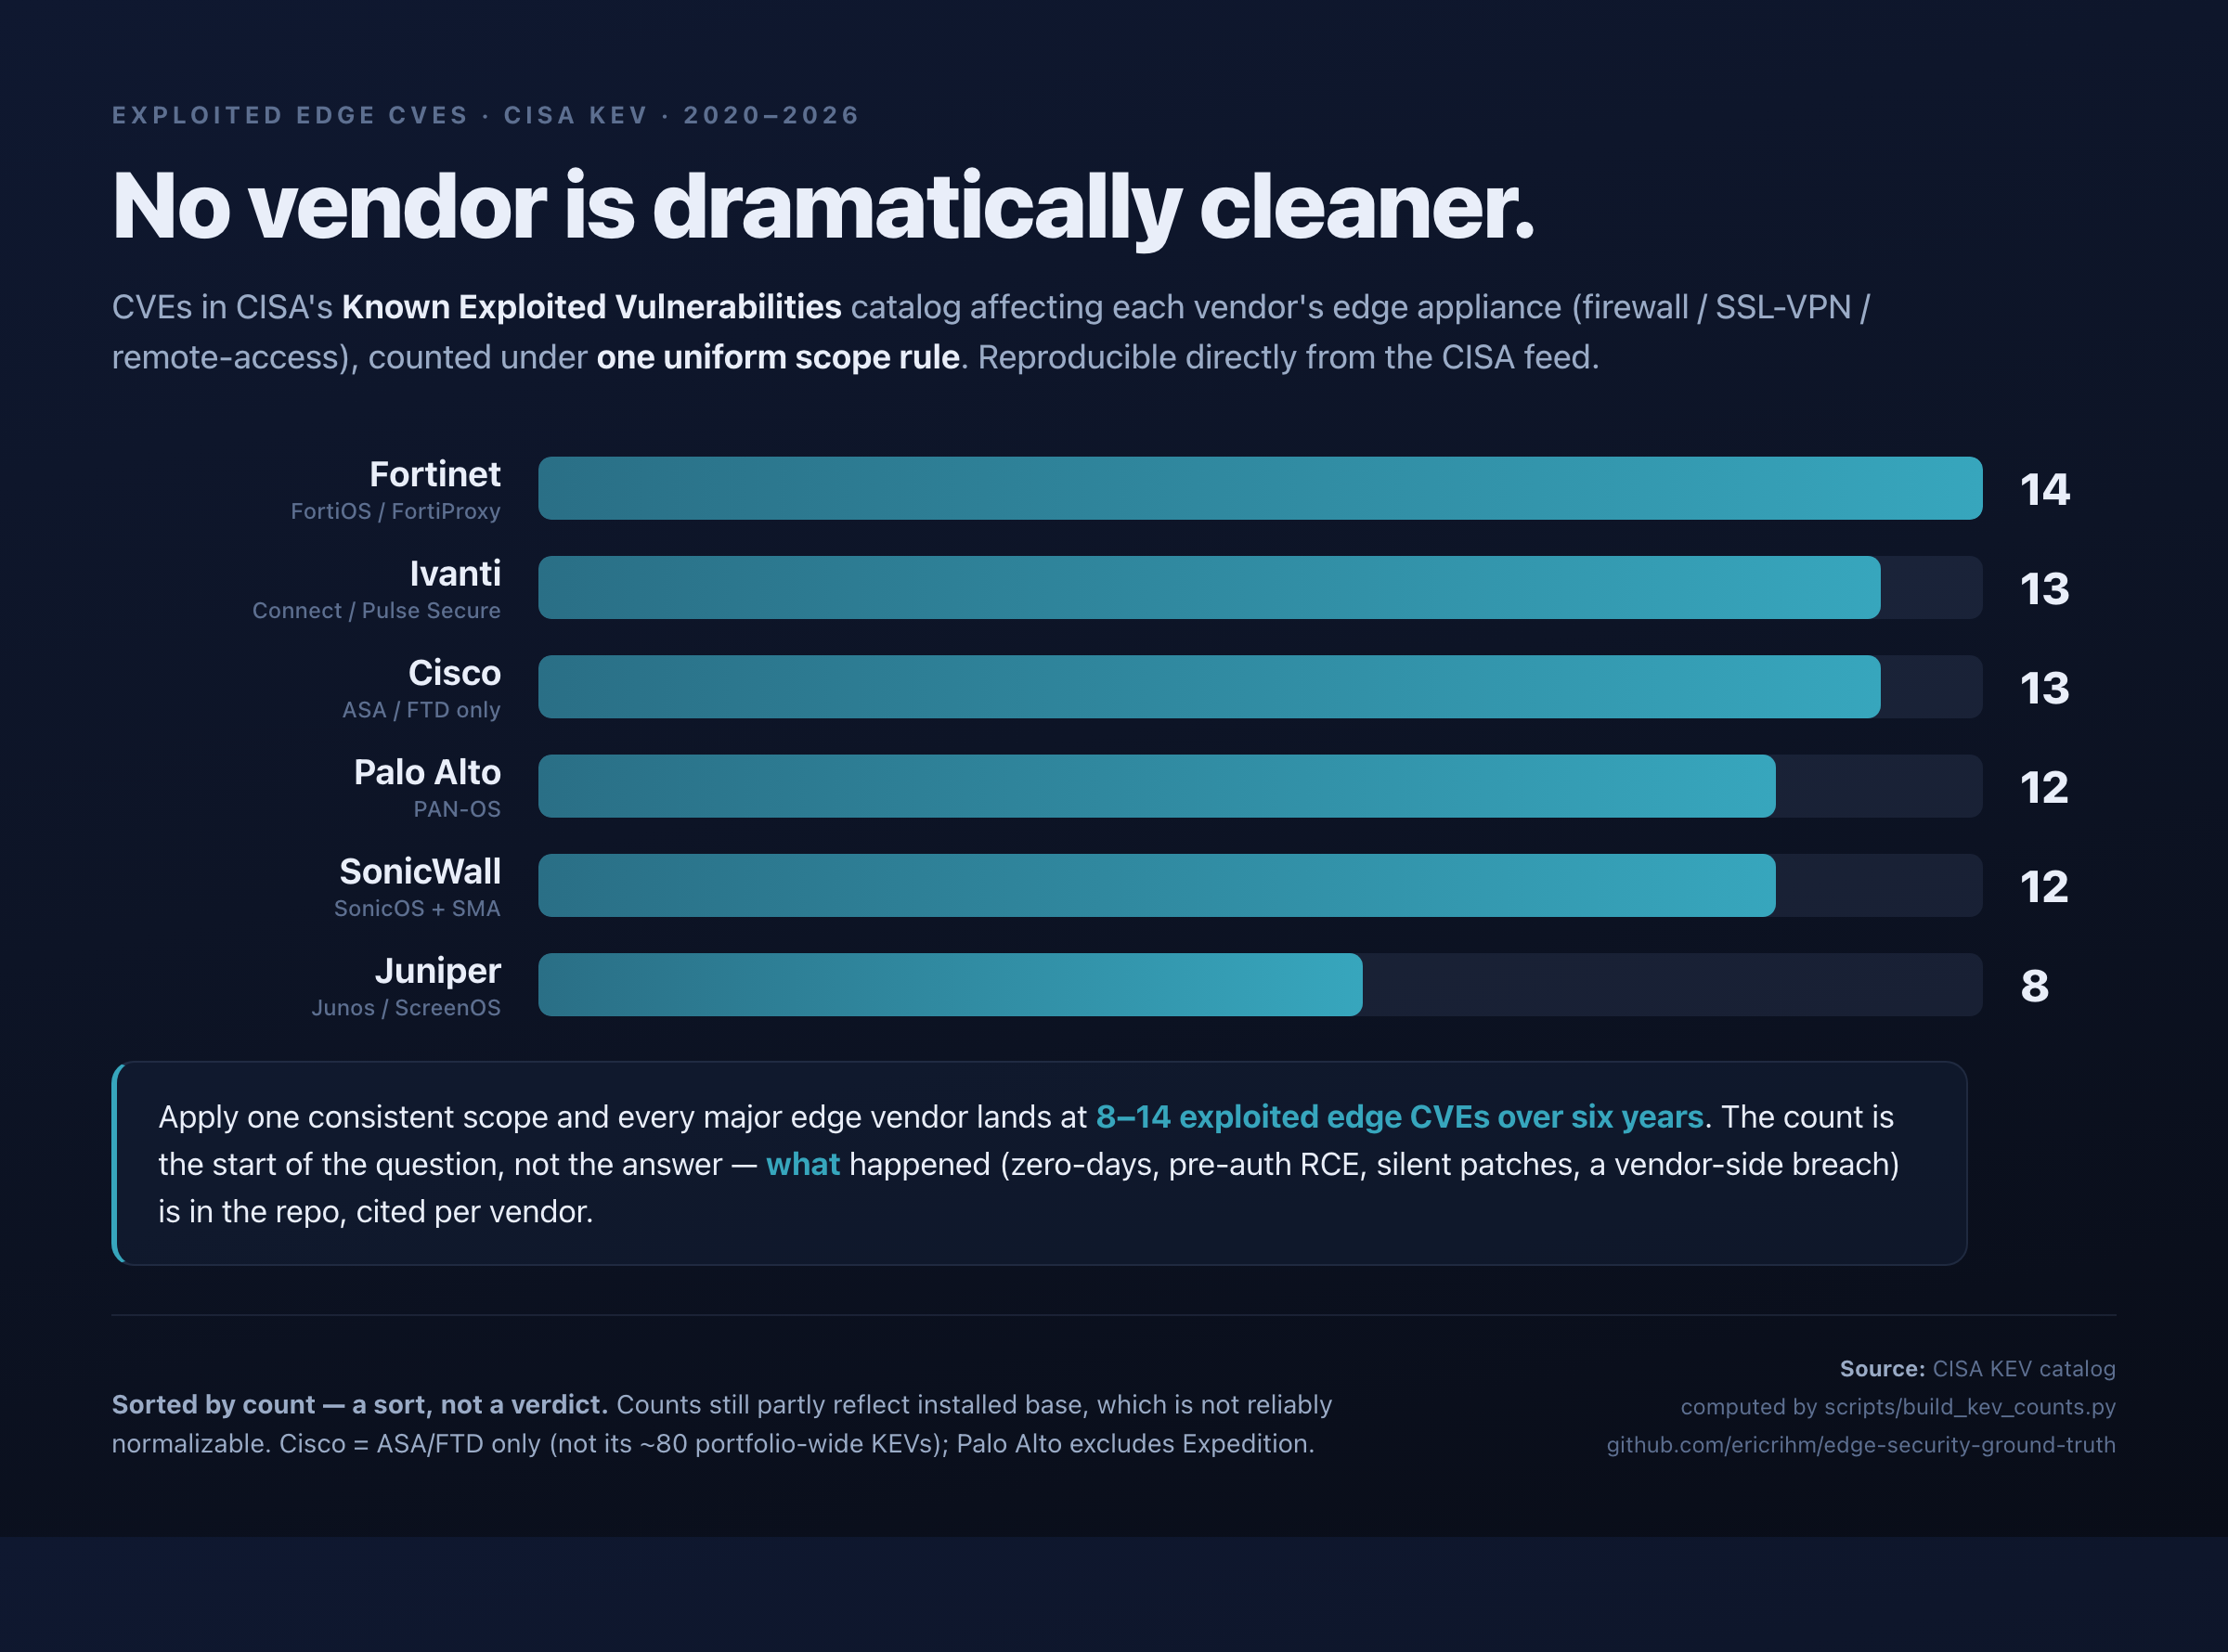
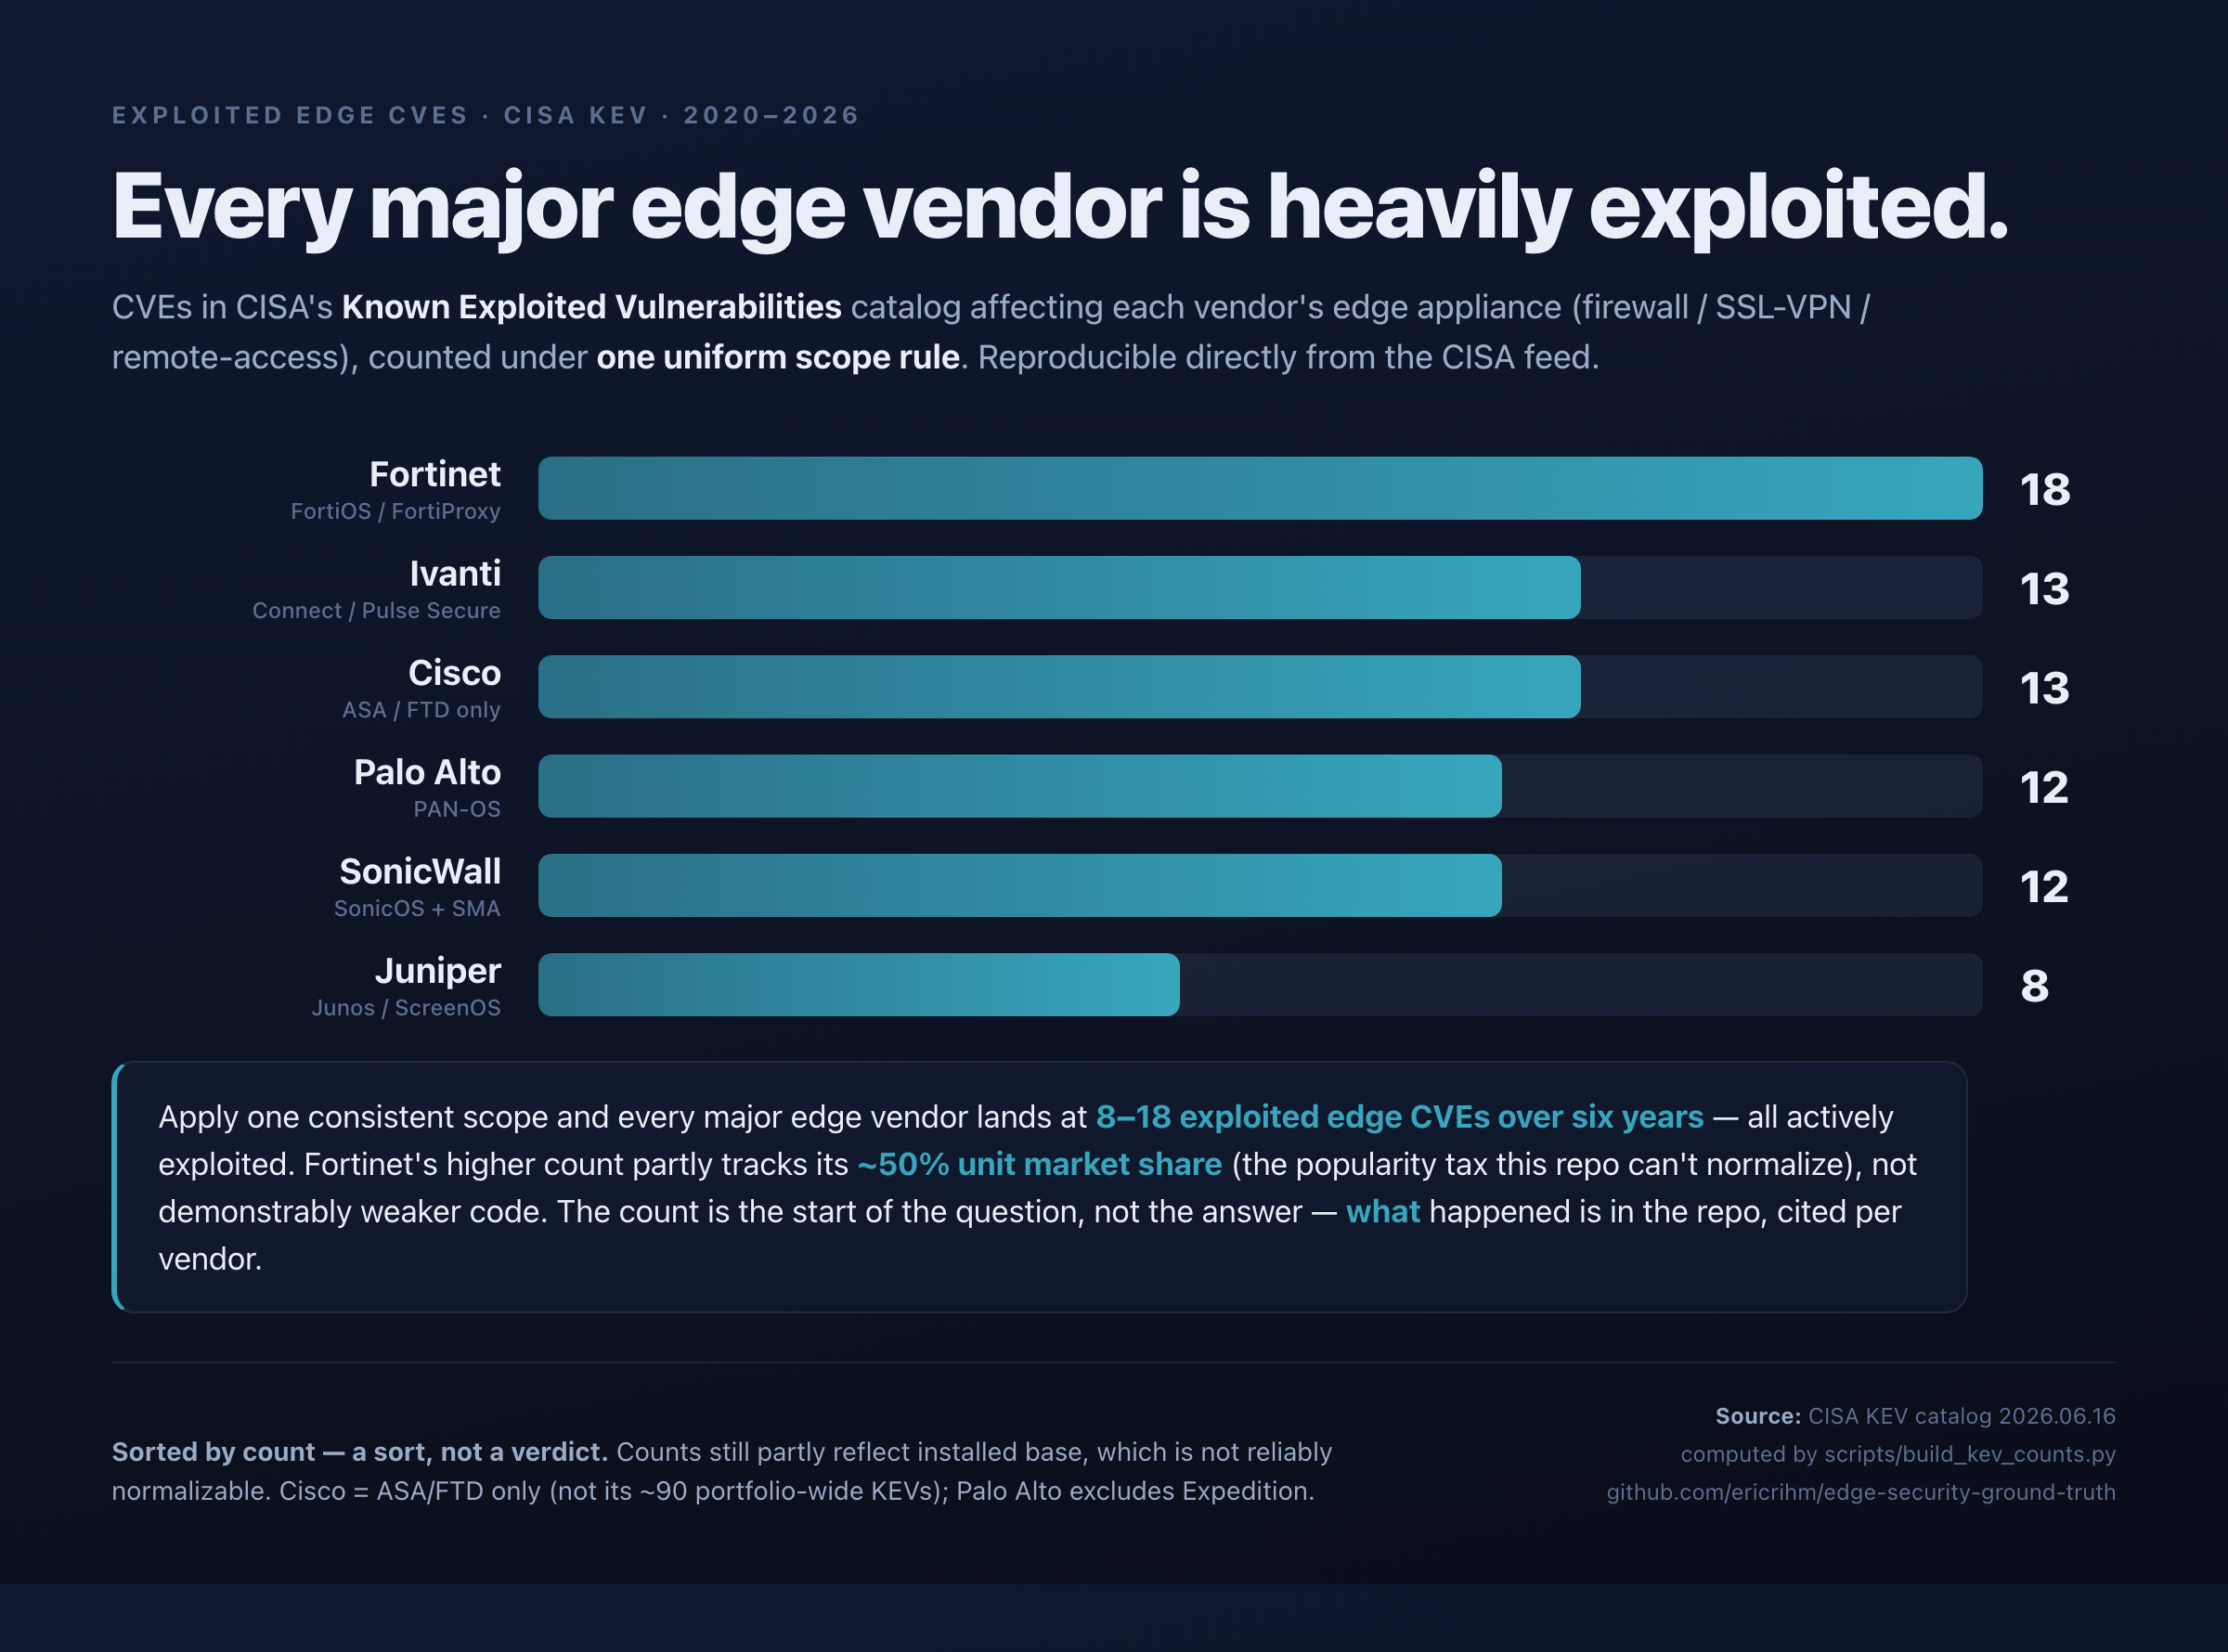
Fix Fortinet undercount 14->18; add FortiBleed (June 2026) context
The scope filter matched the KEV `product` field on FortiOS|FortiProxy, but CISA
labels several FortiOS edge KEVs as the generic "Multiple Products" -- so the
script silently dropped CVE-2022-40684, CVE-2024-23113, CVE-2025-59718, and
CVE-2026-24858. build_kev_counts.py now also matches the shortDescription for
generic-labeled entries (audited across all 6 vendors -- only Fortinet was
affected; Ivanti/Cisco "Multiple Products" entries are genuinely out of scope).

- Fortinet edge KEV: 14 -> 18 (range across vendors now 8-18).
- README + chart updated; Fortinet's higher count framed against its ~50% unit
  share (the install-base confounder), per the methodology.
- Fortinet doc: add the previously-missed FortiOS KEVs + a FortiBleed (June 2026)
  section (credential dataset tied to known flaws incl. CVE-2026-24858, not a new 0-day).
- README: add a data-freshness note (verified vs CISA KEV 2026.06.16; re-run the script).

diff --git a/assets/edge-kev-chart.html b/assets/edge-kev-chart.html
@@ -38,23 +38,23 @@
 <body>
 <div class="wrap">
   <div class="eyebrow">Exploited edge CVEs · CISA KEV · 2020–2026</div>
-  <h1>No vendor is dramatically cleaner.</h1>
+  <h1>Every major edge vendor is heavily exploited.</h1>
   <p class="sub">CVEs in CISA's <b>Known Exploited Vulnerabilities</b> catalog affecting each vendor's edge appliance (firewall / SSL‑VPN / remote‑access), counted under <b>one uniform scope rule</b>. Reproducible directly from the CISA feed.</p>
 
   <div class="chart">
-    <div class="row"><div class="name">Fortinet<span>FortiOS / FortiProxy</span></div><div class="track"><div class="bar" style="width:100%"></div></div><div class="val">14</div></div>
-    <div class="row"><div class="name">Ivanti<span>Connect / Pulse Secure</span></div><div class="track"><div class="bar" style="width:92.9%"></div></div><div class="val">13</div></div>
-    <div class="row"><div class="name">Cisco<span>ASA / FTD only</span></div><div class="track"><div class="bar" style="width:92.9%"></div></div><div class="val">13</div></div>
-    <div class="row"><div class="name">Palo Alto<span>PAN‑OS</span></div><div class="track"><div class="bar" style="width:85.7%"></div></div><div class="val">12</div></div>
-    <div class="row"><div class="name">SonicWall<span>SonicOS + SMA</span></div><div class="track"><div class="bar" style="width:85.7%"></div></div><div class="val">12</div></div>
-    <div class="row"><div class="name">Juniper<span>Junos / ScreenOS</span></div><div class="track"><div class="bar" style="width:57.1%"></div></div><div class="val">8</div></div>
+    <div class="row"><div class="name">Fortinet<span>FortiOS / FortiProxy</span></div><div class="track"><div class="bar" style="width:100%"></div></div><div class="val">18</div></div>
+    <div class="row"><div class="name">Ivanti<span>Connect / Pulse Secure</span></div><div class="track"><div class="bar" style="width:72.2%"></div></div><div class="val">13</div></div>
+    <div class="row"><div class="name">Cisco<span>ASA / FTD only</span></div><div class="track"><div class="bar" style="width:72.2%"></div></div><div class="val">13</div></div>
+    <div class="row"><div class="name">Palo Alto<span>PAN‑OS</span></div><div class="track"><div class="bar" style="width:66.7%"></div></div><div class="val">12</div></div>
+    <div class="row"><div class="name">SonicWall<span>SonicOS + SMA</span></div><div class="track"><div class="bar" style="width:66.7%"></div></div><div class="val">12</div></div>
+    <div class="row"><div class="name">Juniper<span>Junos / ScreenOS</span></div><div class="track"><div class="bar" style="width:44.4%"></div></div><div class="val">8</div></div>
   </div>
 
-  <div class="band">Apply one consistent scope and every major edge vendor lands at <b>8–14 exploited edge CVEs over six years</b>. The count is the start of the question, not the answer — <b>what</b> happened (zero‑days, pre‑auth RCE, silent patches, a vendor‑side breach) is in the repo, cited per vendor.</div>
+  <div class="band">Apply one consistent scope and every major edge vendor lands at <b>8–18 exploited edge CVEs over six years</b> — all actively exploited. Fortinet's higher count partly tracks its <b>~50% unit market share</b> (the popularity tax this repo can't normalize), not demonstrably weaker code. The count is the start of the question, not the answer — <b>what</b> happened is in the repo, cited per vendor.</div>
 
   <div class="foot">
-    <div class="m"><b>Sorted by count — a sort, not a verdict.</b> Counts still partly reflect installed base, which is not reliably normalizable. Cisco = ASA/FTD only (not its ~80 portfolio‑wide KEVs); Palo Alto excludes Expedition.</div>
-    <div class="src"><b>Source:</b> CISA KEV catalog<br>computed by scripts/build_kev_counts.py<br>github.com/ericrihm/edge-security-ground-truth</div>
+    <div class="m"><b>Sorted by count — a sort, not a verdict.</b> Counts still partly reflect installed base, which is not reliably normalizable. Cisco = ASA/FTD only (not its ~90 portfolio‑wide KEVs); Palo Alto excludes Expedition.</div>
+    <div class="src"><b>Source:</b> CISA KEV catalog 2026.06.16<br>computed by scripts/build_kev_counts.py<br>github.com/ericrihm/edge-security-ground-truth</div>
   </div>
 </div>
 </body>

diff --git a/scripts/build_kev_counts.py b/scripts/build_kev_counts.py
@@ -48,7 +48,14 @@ def main(path):
             if v.get("vendorProject", "").lower() != vendor.lower():
                 continue
             prod = v.get("product", "")
-            if not inc.search(prod):
+            desc = v.get("shortDescription", "")
+            # CISA labels some in-scope CVEs with a generic "Multiple Products" product field
+            # (e.g. FortiOS bugs CVE-2022-40684, CVE-2024-23113, CVE-2026-24858). For those, also
+            # match the shortDescription so the edge product isn't silently dropped. Exclude rules
+            # still test the product field only, so a generic-labeled entry isn't dropped merely
+            # because its description lists an out-of-scope sibling product.
+            hay = prod if "multiple" not in prod.lower() else prod + " " + desc
+            if not inc.search(hay):
                 continue
             if exc and exc.search(prod):
                 continue

diff --git a/README.md b/README.md
@@ -29,16 +29,16 @@ The table counts **CISA‑KEV‑listed CVEs affecting each vendor's edge applian
 
 | Vendor | Edge product in scope | Exploited edge CVEs (KEV) |
 |--------|-----------------------|--------------------------:|
-| [Fortinet](docs/Fortinet.md) | FortiOS / FortiProxy SSL‑VPN | **14** |
+| [Fortinet](docs/Fortinet.md) | FortiOS / FortiProxy SSL‑VPN | **18** |
 | [Ivanti](docs/Ivanti.md) | Connect Secure / Pulse Secure VPN | **13** |
 | [Cisco](docs/Cisco.md) | ASA / FTD firewall *(ASA/FTD only — not Cisco's portfolio‑wide KEV total)* | **13** |
 | [Palo Alto Networks](docs/PaloAlto.md) | PAN‑OS *(Expedition excluded)* | **12** |
 | [SonicWall](docs/SonicWall.md) | SonicOS firewall + SMA remote‑access | **12** |
 | [Juniper Networks](docs/Juniper.md) | Junos OS (J‑Web) / ScreenOS | **8** |
 
-![Exploited edge CVEs by vendor — CISA KEV 2020–2026; all six cluster at 8–14](assets/edge-kev-chart.png)
+![Exploited edge CVEs by vendor — CISA KEV 2020–2026; the six vendors span 8–18](assets/edge-kev-chart.png)
 
-**The most important takeaway is the spread, not the order.** Under a consistent scope, every major edge vendor sits between **8 and 14** exploited edge CVEs over six years. **No vendor is dramatically cleaner than the others.** Anyone selling you "vendor X is secure, vendor Y isn't" on raw counts is selling you noise. (See [Caveats](#caveats-sources--corrections): counts still partly reflect installed base, which we cannot normalize away.)
+**The most important takeaway is the spread, not the order.** Under a consistent scope, every major edge vendor sits between **8 and 18** exploited edge CVEs over six years — all under active exploitation. Fortinet's higher count tracks its **~50% unit market share** (the popularity tax we can't normalize away), not demonstrably weaker code. **No vendor is dramatically cleaner than the others.** Anyone selling you "vendor X is secure, vendor Y isn't" on raw counts is selling you noise. (See [Caveats](#caveats-sources--corrections): counts still partly reflect installed base, which we cannot normalize away.)
 
 The full per‑vendor CVE lists with KEV dates are in [`scripts/kev_edge_counts.json`](./scripts/kev_edge_counts.json) (regenerated by the script).
 
@@ -49,7 +49,7 @@ The full per‑vendor CVE lists with KEV dates are in [`scripts/kev_edge_counts.
 The count says *how many* edge bugs were exploited. It does **not** say how fast, whether attackers beat the patch, or whether the vendor's own conduct made things worse. Those are partly interpretive, so we present them as **sourced facts, not aggregate scores.** Weigh whichever matters to your deployment.
 
 ### Fortinet — FortiOS / FortiProxy SSL‑VPN
-A multi‑year run of pre‑auth SSL‑VPN flaws: [CVE‑2022‑42475](https://nvd.nist.gov/vuln/detail/CVE-2022-42475), [CVE‑2023‑27997](https://nvd.nist.gov/vuln/detail/CVE-2023-27997), and [CVE‑2024‑21762](https://nvd.nist.gov/vuln/detail/CVE-2024-21762) are all pre‑authentication remote code execution. **Documented silent patch:** CVE‑2023‑27997 ("XORtigate") shipped as a fixed firmware build ~3–4 days **before** the advisory; researchers reproduced it by diffing the firmware before customers were told ([watchTowr](https://labs.watchtowr.com/xortigate-or-cve-2023-27997/), [Tenable](https://www.tenable.com/blog/cve-2023-27997-heap-based-buffer-overflow-in-fortinet-fortios-and-fortiproxy-ssl-vpn-xortigate)). CVE‑2024‑21762 was added to CISA KEV the day after disclosure (Feb 9 2024), signaling exploitation was already active.
+A multi‑year run of pre‑auth SSL‑VPN flaws: [CVE‑2022‑42475](https://nvd.nist.gov/vuln/detail/CVE-2022-42475), [CVE‑2023‑27997](https://nvd.nist.gov/vuln/detail/CVE-2023-27997), and [CVE‑2024‑21762](https://nvd.nist.gov/vuln/detail/CVE-2024-21762) are all pre‑authentication remote code execution. **Documented silent patch:** CVE‑2023‑27997 ("XORtigate") shipped as a fixed firmware build ~3–4 days **before** the advisory; researchers reproduced it by diffing the firmware before customers were told ([watchTowr](https://labs.watchtowr.com/xortigate-or-cve-2023-27997/), [Tenable](https://www.tenable.com/blog/cve-2023-27997-heap-based-buffer-overflow-in-fortinet-fortios-and-fortiproxy-ssl-vpn-xortigate)). CVE‑2024‑21762 was added to CISA KEV the day after disclosure (Feb 9 2024), signaling exploitation was already active. Also KEV‑listed (under CISA's generic "Multiple Products" label): the FortiOS auth bypasses [CVE‑2022‑40684](https://nvd.nist.gov/vuln/detail/CVE-2022-40684) (mass‑exploited, 2022) and [CVE‑2026‑24858](https://www.cisa.gov/news-events/alerts/2026/01/28/fortinet-releases-guidance-address-ongoing-exploitation-authentication-bypass-vulnerability-cve-2026) (FortiCloud SSO, actively exploited Jan 2026), and the FortiOS RCE [CVE‑2024‑23113](https://nvd.nist.gov/vuln/detail/CVE-2024-23113). **June 2026 — [FortiBleed](https://cyberscoop.com/ortinet-zero-day-cve-2026-24858-forticloud-sso-auth-bypass/):** credentials for ~74,000 internet‑facing FortiGates surfaced; researchers attribute it to *already‑known* flaws (chiefly CVE‑2026‑24858) plus legacy hashing and recycled credentials — not a new zero‑day.
 
 ### Ivanti — Connect Secure / Pulse Secure VPN
 The Jan 2024 [CVE‑2023‑46805](https://cloud.google.com/blog/topics/threat-intelligence/ivanti-connect-secure-vpn-zero-day) + [CVE‑2024‑21887](https://cloud.google.com/blog/topics/threat-intelligence/ivanti-connect-secure-vpn-zero-day) chain was an unauthenticated RCE **exploited before any patch** (~weeks pre‑patch, China‑nexus UNC5221), severe enough to trigger [CISA Emergency Directive 24‑01](https://www.cisa.gov/news-events/directives/emergency-directive-24-01) ordering federal agencies to disconnect — a rare step for a commercial VPN. CISA also reported the Integrity Checker Tool could be defeated and factory resets might not remove persistence (a finding [Ivanti disputed](https://www.bankinfosecurity.com/ivanti-disputes-cisa-findings-post-factory-reset-hacking-a-24492)). The pattern recurred in 2025 with [CVE‑2025‑0282](https://www.cisa.gov/news-events/alerts/2025/01/08/cisa-adds-one-vulnerability-kev-catalog) (pre‑auth RCE).
@@ -83,7 +83,7 @@ The 2023 J‑Web chain ([CVE‑2023‑36844](https://www.rapid7.com/blog/post/20
 
 This repo does reach a conclusion — just not a per‑vendor verdict. Three findings the data supports:
 
-1. **No major edge vendor is meaningfully safer than the others.** Six vendors, one consistent scope, **8–14 exploited edge CVEs each** over six years. Choosing a firewall on its CVE reputation is choosing between roughly equivalent exposure.
+1. **No major edge vendor is meaningfully safer than the others.** Six vendors, one consistent scope, **8–18 exploited edge CVEs each** over six years — all actively exploited. The high end (Fortinet, 18) tracks the largest install base, not demonstrably weaker code. Choosing a firewall on its CVE reputation is choosing between roughly equivalent exposure.
 2. **The exposure is the edge itself, not the brand.** Mandiant's 2024 average time‑to‑exploit went *negative* (exploited before patch), and 44% of 2024 zero‑days hit security/edge appliances. The recurring pattern across every vendor here is identical: an internet‑facing, unauthenticated‑reachable management/VPN surface, exploited fast — often pre‑patch.
 3. **So the controllable variable is you, not the vendor.** What separated a breach from a near‑miss in these cases was response posture: time‑to‑patch (or virtual‑patch), whether the management plane was internet‑exposed, whether you assume‑breach and hunt once a KEV lands, and whether you've isolated the vendor's *own* cloud/management services — the [SonicWall cloud‑backup breach](docs/SonicWall.md) is the reminder that the vendor's infrastructure is part of your attack surface.
 
@@ -98,6 +98,7 @@ This repo does reach a conclusion — just not a per‑vendor verdict. Three fin
 - **Scope is a judgment call, applied transparently.** The include/exclude rule lives in [`scripts/build_kev_counts.py`](./scripts/build_kev_counts.py); disagree with it? Edit the rule and re‑run. SonicWall's count spans firewall + SMA remote‑access; Cisco is ASA/FTD‑only; Palo Alto excludes Expedition.
 - **Attribution is probabilistic** (UNC5221, UNC3886, UAT4356 = assessments, not proof). **Bounded window:** 2020‑01‑01 → 2026‑06‑16.
 - **Frameworks & sources:** CISA KEV, FIRST.org EPSS, Mandiant/GTIG TTE, VulnCheck 2026, arXiv:2006.15074, arXiv:2405.01289, and per‑vendor first‑party / named research (Volexity, Mandiant, Rapid7, Tenable, watchTowr, Talos, Arctic Wolf, CISA advisories & Emergency Directives) cited inline.
+- **Freshness:** counts verified against **CISA KEV catalog 2026.06.16**; re‑run [`build_kev_counts.py`](./scripts/build_kev_counts.py) against the live feed to update. Latest tracked Fortinet development: FortiBleed (June 2026) — see the [Fortinet doc](docs/Fortinet.md).
 - **Corrections welcome.** Open an issue with a primary source. Unconfirmed figures are flagged or excluded, never asserted.
 
 **Full methodology, scope rule, and limitations: [METHODOLOGY.md](./METHODOLOGY.md).**

diff --git a/docs/Fortinet.md b/docs/Fortinet.md
@@ -1,6 +1,6 @@
 # Fortinet (FortiGate)
 
-**Scope: FortiOS / FortiProxy SSL-VPN.** The largest firewall vendor by unit count; the SSL-VPN disclosure record is documented below. *(14 edge KEV entries, 2020–2026.)*
+**Scope: FortiOS / FortiProxy SSL-VPN.** The largest firewall vendor by unit count; the SSL-VPN disclosure record is documented below. *(18 edge KEV entries, 2020–2026 — including FortiOS bugs CISA lists under a generic "Multiple Products" label.)*
 
 ## Market Position
 
@@ -33,8 +33,12 @@ In April 2025, CISA [issued an alert](https://www.bleepingcomputer.com/news/secu
 
 ## What the Metrics Actually Show
 
-- **KEV density:** Four SSL-VPN KEV entries from a single daemon over five years is not explained by market share alone — it indicates a recurring architectural or SDL failure in a specific product area.
+- **KEV density:** Four pre-auth RCE KEV entries in the SSL-VPN daemon alone — out of 18 edge KEV entries total — is not explained by market share alone; it indicates a recurring architectural or SDL failure in a specific product area.
 - **Exploitation speed:** CVE-2024-21762's advisory (February 8, 2024) was followed by a CISA KEV listing the [next day, February 9](https://nvd.nist.gov/vuln/detail/CVE-2024-21762) — a near-simultaneous signal that exploitation was already active.
 - **Transparency:** Silent patching plus firmware-only distribution is a disclosure anti-pattern — the documented opposite of the "most transparent" claim.
 
 Fortinet's unit-count leadership is real. Its security disclosure posture and SSL-VPN vulnerability recurrence are not defensible on the same grounds.
+
+## Latest development — FortiBleed (June 2026)
+
+In mid-June 2026, a dataset reportedly exposing login credentials for **~74,000 internet-facing FortiGate devices** surfaced in cybercriminal communities ([CyberScoop](https://cyberscoop.com/ortinet-zero-day-cve-2026-24858-forticloud-sso-auth-bypass/)). Researchers attribute it not to a single new zero-day but to a **convergence of already-known issues**: unpatched FortiOS flaws (chiefly [CVE-2026-24858](https://www.cisa.gov/news-events/alerts/2026/01/28/fortinet-releases-guidance-address-ongoing-exploitation-authentication-bypass-vulnerability-cve-2026), the FortiCloud SSO authentication bypass actively exploited since January 2026), legacy SHA-256 password hashing on older FortiOS versions, and recycled credentials already circulating from infostealer campaigns and prior breaches. Included here as context — it is not a new KEV entry.